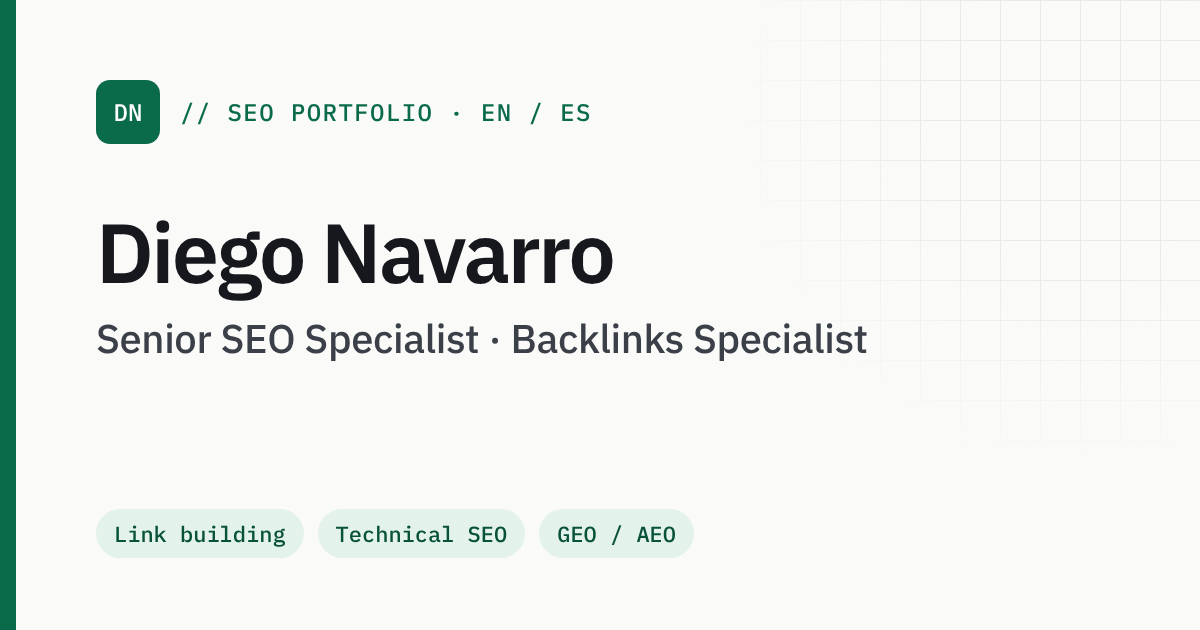
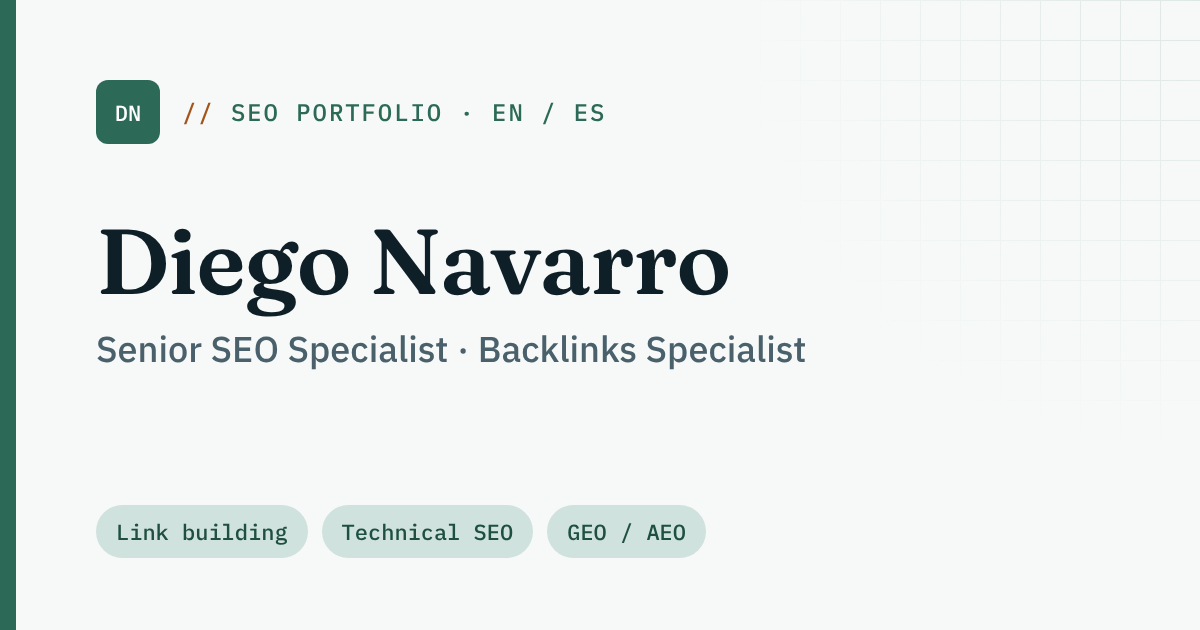
style: switch theme to Wada No. 6 palette with Fraunces headings
Sage/mineral greens + slate (Sanzo Wada swatch collection 6), deepened
mineral green for links, copper highlight accents, ochre/brick status
colors. All text pairs WCAG AA in light and dark. Fraunces (headings)
self-hosted and preloaded. New favicon, touch icon, and share image.

Claude-Session: https://claude.ai/code/session_01H74WHaCzyConaT7GujGsoC

diff --git a/src/styles/tokens.css b/src/styles/tokens.css
@@ -3,34 +3,41 @@
  * Components only use these variables, never raw values, so changing the
  * brand later means editing this file only.
  *
- * Theme: "Signal green". Light by default; dark follows the visitor's
+ * Theme: "Wada No. 6" (Sanzo Wada's Swatch Collection 6, sage + slate with copper
+ * accents; it replaced "Signal green" on Oct 14). Light by default; dark follows the visitor's
  * device setting (prefers-color-scheme). Contrast ratios are noted next to
  * each text color (WCAG AA needs 4.5:1 for text, 3:1 for large text/UI).
  */
 
 :root {
   /* ---------- Color: light ---------- */
-  --color-bg: #fafaf9; /* page background */
+  /* Palette: Sanzo Wada, Swatch Collection No. 6 (white, neutral gray #b5d1cc, mineral gray
+     #9fc2b2, warm gray #9cb29e, slate #1b3644). The pastel greens are too light for text on
+     white, so links use a deepened mineral green and the pastels are backgrounds only. */
+  --color-bg: #f6f9f8; /* page background: a faint neutral gray */
   --color-surface: #ffffff; /* cards */
-  --color-surface-2: #f1f2ef; /* subtle panels, code blocks */
-  --color-border: #e2e4df; /* hairlines (decorative) */
-  --color-border-strong: #8a8f98; /* outlines on controls: 3.2:1 on bg */
+  --color-surface-2: #e6efec; /* tinted sections, subtle panels, code blocks */
+  --color-border: #d3e0dc; /* hairlines (decorative) */
+  --color-border-strong: #6f8a84; /* outlines on controls: 3.5:1 on bg */
 
-  --color-text: #16181d; /* 17.0:1 on bg */
-  --color-text-muted: #5a5f6b; /* 6.1:1 on bg */
+  --color-text: #0f1f27; /* deep slate: 15.9:1 on bg */
+  --color-text-muted: #4a606b; /* 6.2:1 on bg, 5.6:1 on surface-2 */
 
-  --color-accent: #0a6b4b; /* links, primary buttons: 6.3:1 on bg */
-  --color-accent-hover: #075239; /* 8.9:1 on bg */
-  --color-on-accent: #ffffff; /* text on accent: 6.5:1 */
-  --color-accent-soft: #e3f2ea; /* tinted backgrounds (tags) */
-  --color-on-accent-soft: #075239; /* text on accent-soft: 8.1:1 */
+  --color-accent: #2c6a57; /* deepened mineral green, links + primary buttons: 6.0:1 on bg */
+  --color-accent-hover: #1f4f41; /* 8.8:1 on bg */
+  --color-on-accent: #ffffff; /* text on accent: 6.4:1 */
+  --color-accent-soft: #cfe2dd; /* neutral gray tint (tags) */
+  --color-on-accent-soft: #1f4f41; /* text on accent-soft: 6.9:1 */
 
-  --color-focus: #0a6b4b;
+  /* Copper: small warm accents (eyebrow "//", profile details). 5.2:1 on bg. */
+  --color-highlight: #a3541c;
+
+  --color-focus: #2c6a57;
 
   /* Status colors (tool results, meters). Always paired with text, never color alone. */
-  --color-success: #0a6b4b; /* 6.3:1 on bg */
-  --color-warning: #8a5a00; /* 5.7:1 on bg */
-  --color-danger: #b42318; /* 6.3:1 on bg */
+  --color-success: #2c6a57; /* 6.0:1 on bg */
+  --color-warning: #9a520f; /* ochre: 5.5:1 on bg, 5.0:1 on surface-2 */
+  --color-danger: #a83a26; /* brick: 6.0:1 on bg */
 
   /* SERP preview: imitates Google's result colors (light). */
   --color-serp-title: #1a0dab; /* 12.5:1 on surface */
@@ -40,6 +47,8 @@
   --font-sans:
     'IBM Plex Sans', system-ui, -apple-system, 'Segoe UI', Roboto, 'Helvetica Neue', Arial,
     sans-serif;
+  /* Headings: Fraunces, an editorial serif (body text and labels stay IBM Plex). */
+  --font-heading: 'Fraunces', Georgia, 'Times New Roman', serif;
   --font-mono: 'IBM Plex Mono', ui-monospace, 'SFMono-Regular', Menlo, Consolas, monospace;
 
   /* Fluid sizes: grow smoothly from phone (~360px) to desktop (~1280px). */
@@ -91,26 +100,28 @@
 
 @media (prefers-color-scheme: dark) {
   :root {
-    --color-bg: #0f1115;
-    --color-surface: #171a20;
-    --color-surface-2: #1e222a;
-    --color-border: #2a2f38;
-    --color-border-strong: #6b7280; /* 3.7:1 on bg */
+    --color-bg: #0e1c23; /* deep slate */
+    --color-surface: #142833;
+    --color-surface-2: #1b3644; /* Wada slate: tinted sections */
+    --color-border: #28465a;
+    --color-border-strong: #6f8e95; /* 5.0:1 on bg */
 
-    --color-text: #e8eaed; /* 15.7:1 on bg */
-    --color-text-muted: #9ba1ac; /* 7.3:1 on bg */
+    --color-text: #e8f0ee; /* 15.0:1 on bg */
+    --color-text-muted: #a5bbb6; /* 8.6:1 on bg, 6.3:1 on surface-2 */
 
-    --color-accent: #4fd1a1; /* 9.9:1 on bg */
-    --color-accent-hover: #7fe0bc;
-    --color-on-accent: #0f1115; /* 9.9:1 */
-    --color-accent-soft: #12332a;
-    --color-on-accent-soft: #7fe0bc; /* 9.4:1 on accent-soft */
+    --color-accent: #9fc2b2; /* Wada mineral gray: 9.0:1 on bg, 6.5:1 on surface-2 */
+    --color-accent-hover: #c3dbd4;
+    --color-on-accent: #0e1c23; /* 9.0:1 */
+    --color-accent-soft: #24463f;
+    --color-on-accent-soft: #c3dbd4; /* 7.1:1 on accent-soft */
 
-    --color-focus: #4fd1a1;
+    --color-highlight: #e9a866; /* copper: 8.5:1 on bg */
 
-    --color-success: #4fd1a1; /* 9.9:1 on bg */
-    --color-warning: #f0b44c; /* 10.2:1 on bg */
-    --color-danger: #ff8a7a; /* 8.2:1 on bg */
+    --color-focus: #9fc2b2;
+
+    --color-success: #9fc2b2; /* 9.0:1 on bg */
+    --color-warning: #e9a866; /* 8.5:1 on bg, 6.2:1 on surface-2 */
+    --color-danger: #f2937c; /* 7.6:1 on bg, 5.6:1 on surface-2 */
 
     --color-serp-title: #99c3ff; /* 9.7:1 on surface */
     --color-serp-text: #bdc1c6; /* 9.7:1 on surface */

diff --git a/src/styles/global.css b/src/styles/global.css
@@ -55,6 +55,7 @@ h2,
 h3,
 h4 {
   margin: 0 0 var(--space-4);
+  font-family: var(--font-heading);
   overflow-wrap: break-word;
   font-weight: var(--fw-semibold);
   line-height: var(--lh-snug);
@@ -65,7 +66,7 @@ h4 {
 h1 {
   font-size: var(--fs-3xl);
   line-height: var(--lh-tight);
-  letter-spacing: -0.025em;
+  letter-spacing: -0.01em;
 }
 h2 {
   font-size: var(--fs-2xl);

diff --git a/CLAUDE.md b/CLAUDE.md
@@ -163,13 +163,16 @@ integrations/             Small build steps (nested-404.mjs)
 
 ## Design system
 
-- Style: "technical and precise". Theme: **Signal green**. Light by default, dark follows
-  `prefers-color-scheme` (no toggle).
+- Style: "technical and precise", with an editorial touch. Theme: **Wada No. 6** (Sanzo Wada's
+  Swatch Collection 6: sage/mineral greens + slate, copper `--color-highlight` for small accents;
+  replaced Signal green on Oct 14). Pastel greens are backgrounds only in light mode (too light for
+  text). Light by default, dark follows `prefers-color-scheme` (no toggle).
 - **Use tokens only** (`var(--color-*)`, `--fs-*`, `--space-*`, `--radius*`). No raw hex values or
   pixel font sizes in components. New colors go in `tokens.css` for both themes, with the contrast
   ratio noted in a comment (AA: 4.5:1 text, 3:1 UI/large text).
-- Fonts: IBM Plex Sans (text, variable) + IBM Plex Mono 400/500 (labels, numbers), Latin subset only,
-  loaded in `components/layout/Fonts.astro`. Only Plex Sans is preloaded.
+- Fonts: Fraunces (headings h1–h4, variable, `--font-heading`) + IBM Plex Sans (text, variable) +
+  IBM Plex Mono 400/500 (labels, numbers), Latin subset only, loaded in
+  `components/layout/Fonts.astro`. Plex Sans and Fraunces are preloaded.
 - Components (`src/components/ui/`):
   - `Section` (section landmark + container; pass `labelledby`) and `SectionHeading` (mono
     eyebrow + heading).
@@ -209,7 +212,7 @@ integrations/             Small build steps (nested-404.mjs)
 ## Roadmap
 
 1. ✅ Foundation
-2. ✅ Design system (Signal green, IBM Plex, components, style guide)
+2. ✅ Design system (Wada No. 6 colors since Oct 14, Fraunces + IBM Plex, components, style guide)
 3. ✅ Home page (hiring-team focus; CTA for services moves to Contact later)
 4. ✅ About + Experience (4 case studies, EN + ES), published
 5. 🟡 Contact page published: form first (plain HTML, shown disabled as "coming soon" until
